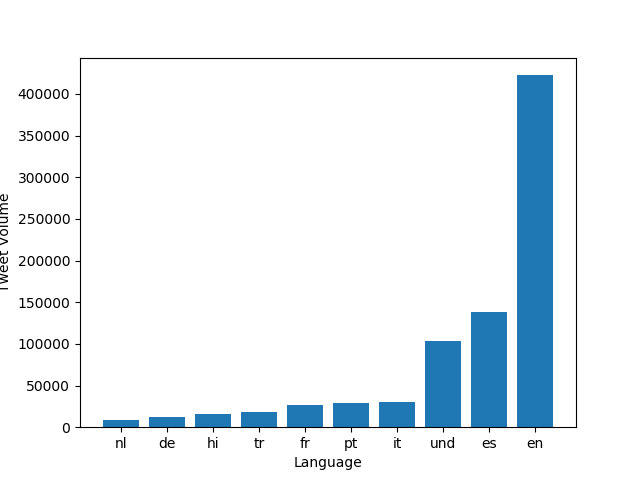
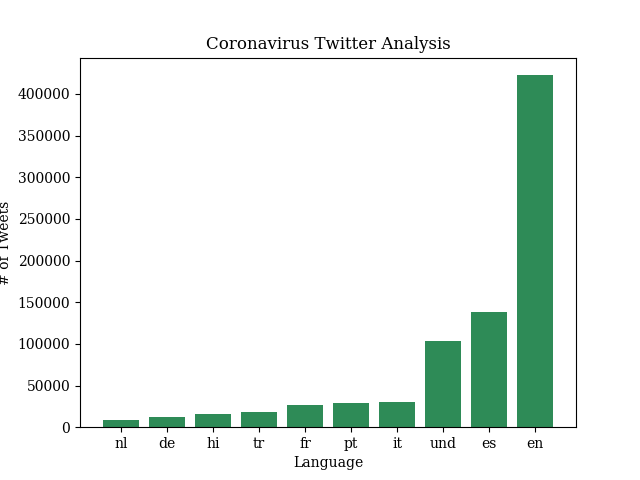
visualize and graph expirementation

diff --git a/src/visualize.py b/src/visualize.py
@@ -45,6 +45,8 @@ sns.set_context("notebook", rc={"font.size":16,
                                 "axes.titlesize":20,
                                 "axes.labelsize":18})
 """
+plt.rcParams["font.family"] = "serif"
+plt.rcParams["mathtext.fontset"] = "dejavuserif"
 
 # open the input path
 with open(args.input_path) as f:
@@ -68,7 +70,7 @@ keys = keys[::-1]
 values = values[::-1]
 
 # plot the bar graph
-plt.bar(range(len(keys)), values)
+plt.bar(range(len(keys)), values, color = "seagreen")
 plt.xticks(range(len(keys)), keys)
 
 # set the title and axis labels
@@ -77,9 +79,10 @@ if args.input_path[-1] == 'g':
 else:
     plt.xlabel('Country')
 if args.percent:
-    plt.ylabel('Percent of Total')
+    plt.ylabel('% of Tweets')
 else:
-    plt.ylabel('Tweet Volume')
+    plt.ylabel('# of Tweets')
+plt.title('Coronavirus Twitter Analysis')
 
 # save the bar graph as a PNG file
 if args.input_path[-1] == 'g':

diff --git a/README.md b/README.md
@@ -44,7 +44,8 @@ $ ./src/visualize.py --input_path=reduced.lang --key='#coronavirus'
 ```
 You can create a bar chart of the number of tweets that used #coronavirus for the top 10 languages.
 
-I'm a big fan of making things pretty, so I used `seaborn`, a Python visualization library based on `matplotlib`, to make everything prettier. You can find documentation for it here: [seaborn github repo](https://github.com/mwaskom/seaborn).
+I'm a big fan of making things pretty, so I tried to use `seaborn`, a Python visualization library based on `matplotlib`, to make everything prettier. You can find documentation for it here: [seaborn github repo](https://github.com/mwaskom/seaborn).
+Unfortuately, I was unsuccessful.
 
 ## Outputs
 
